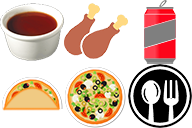
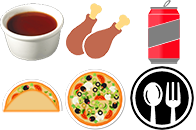
Roy 2:05

diff --git a/public/custom.css b/public/custom.css
@@ -11,23 +11,23 @@
 }
 
 .sprite-wings{
-    background-position: -64px -0px;
+    background-position: -66px -0px;
 }
 
 .sprite-drinks{
-    background-position: -128px -0px;
+    background-position: -132px -0px;
 }
 
 .sprite-panzerotti{
-    background-position: 0px -64px;
+    background-position: 0px -66px;
 }
 
 .sprite-pizza{
-    background-position: -64px -64px;
+    background-position: -66px -66px;
 }
 
 .sprite-sides{
-    background-position: -128px -64px;
+    background-position: -132px -66px;
 }
 
 .sprite-medium{
